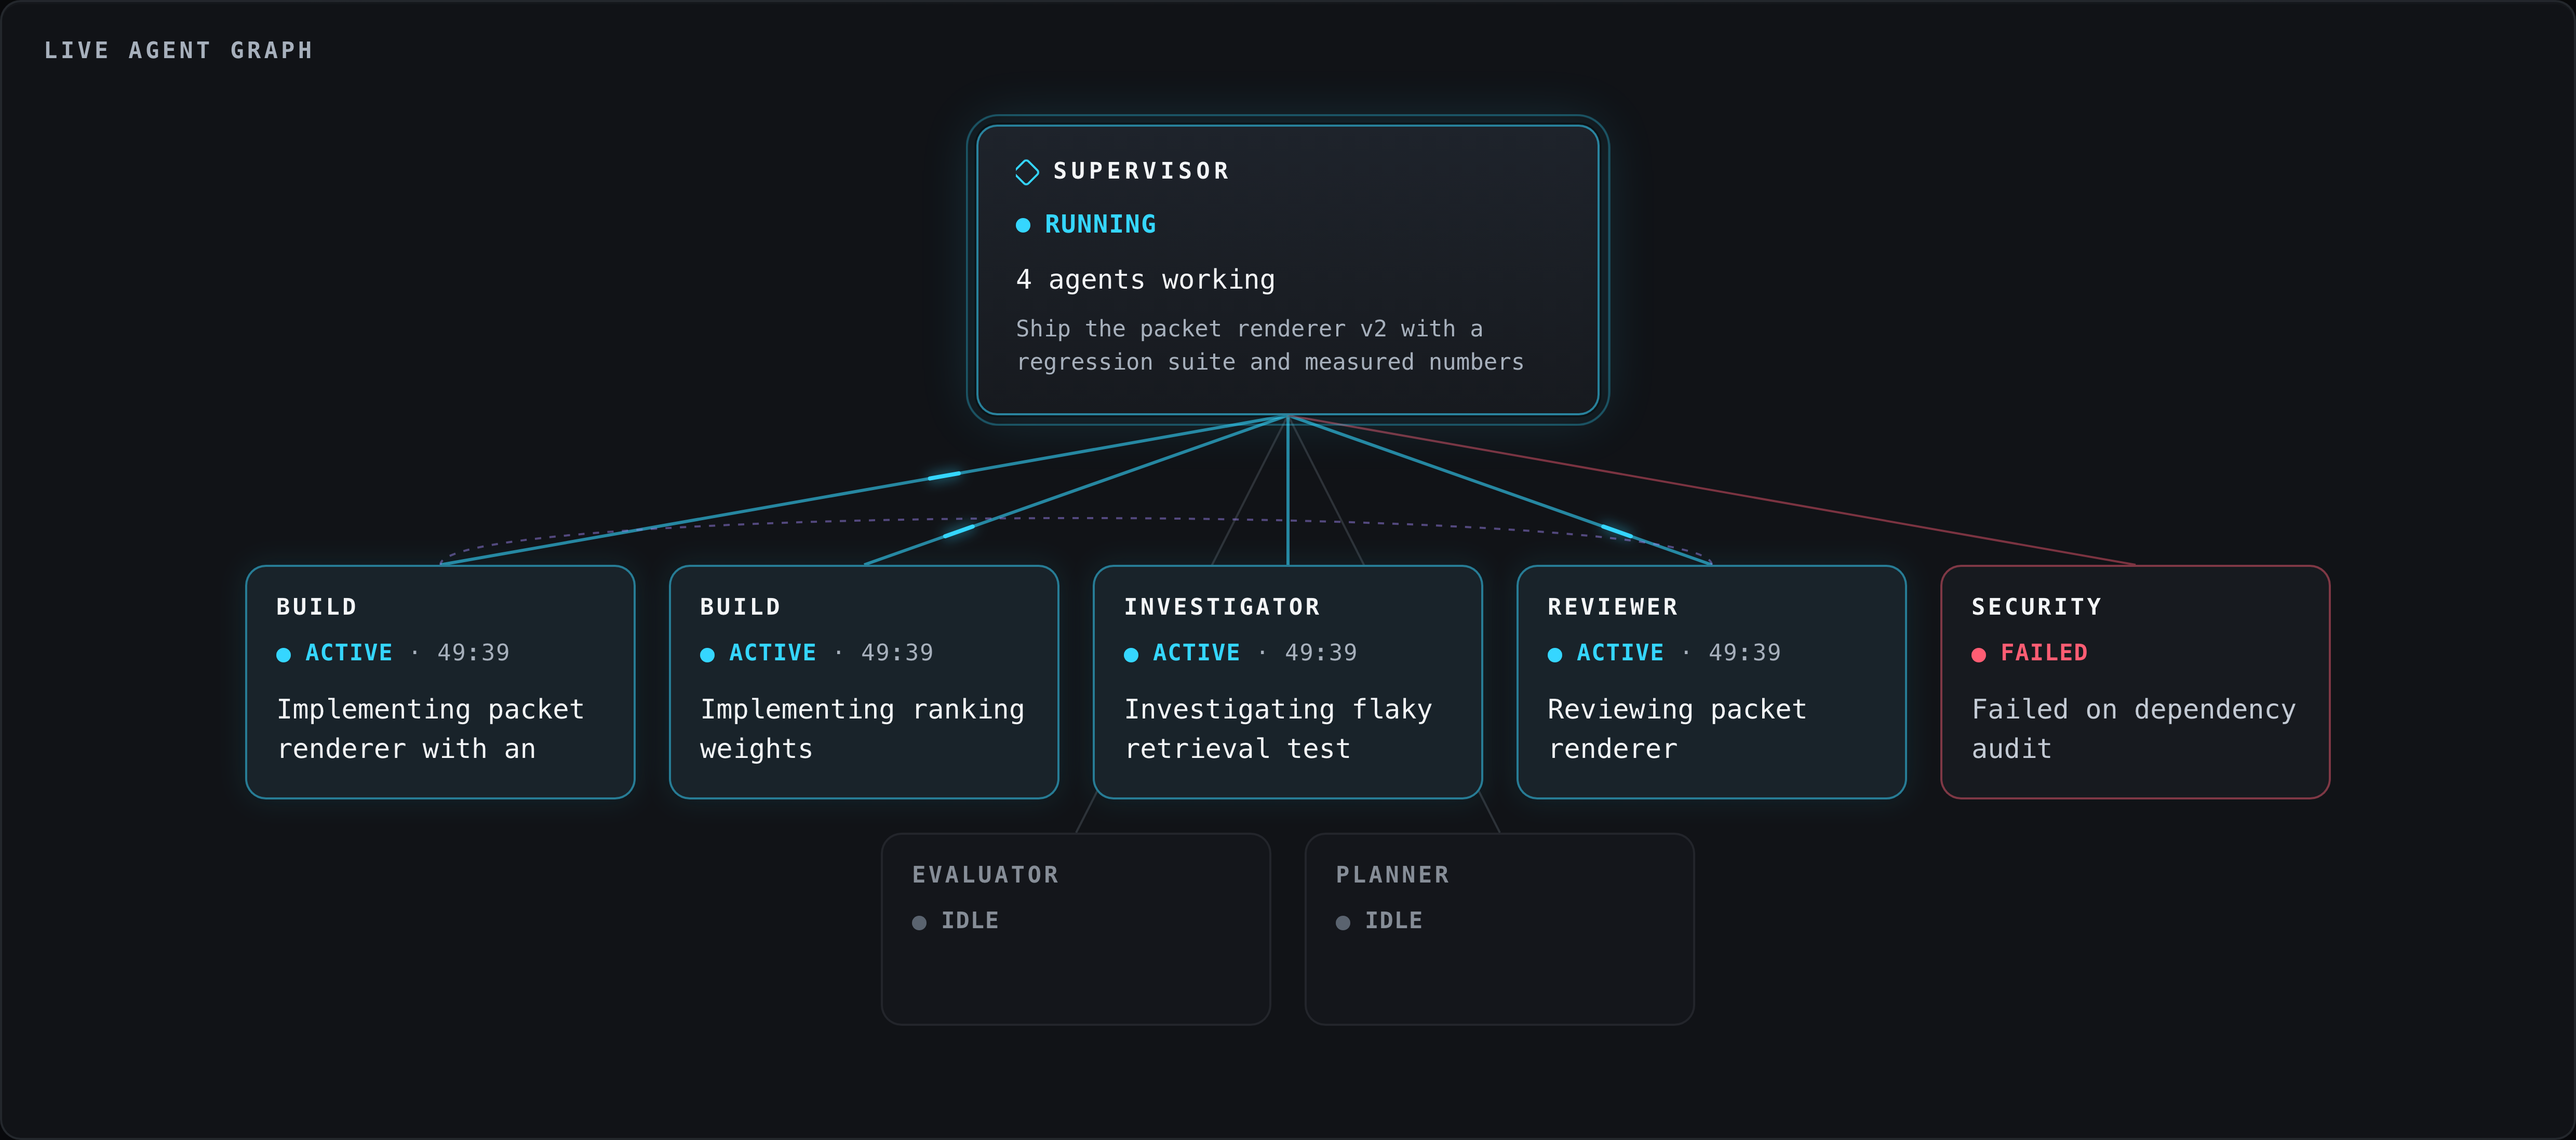
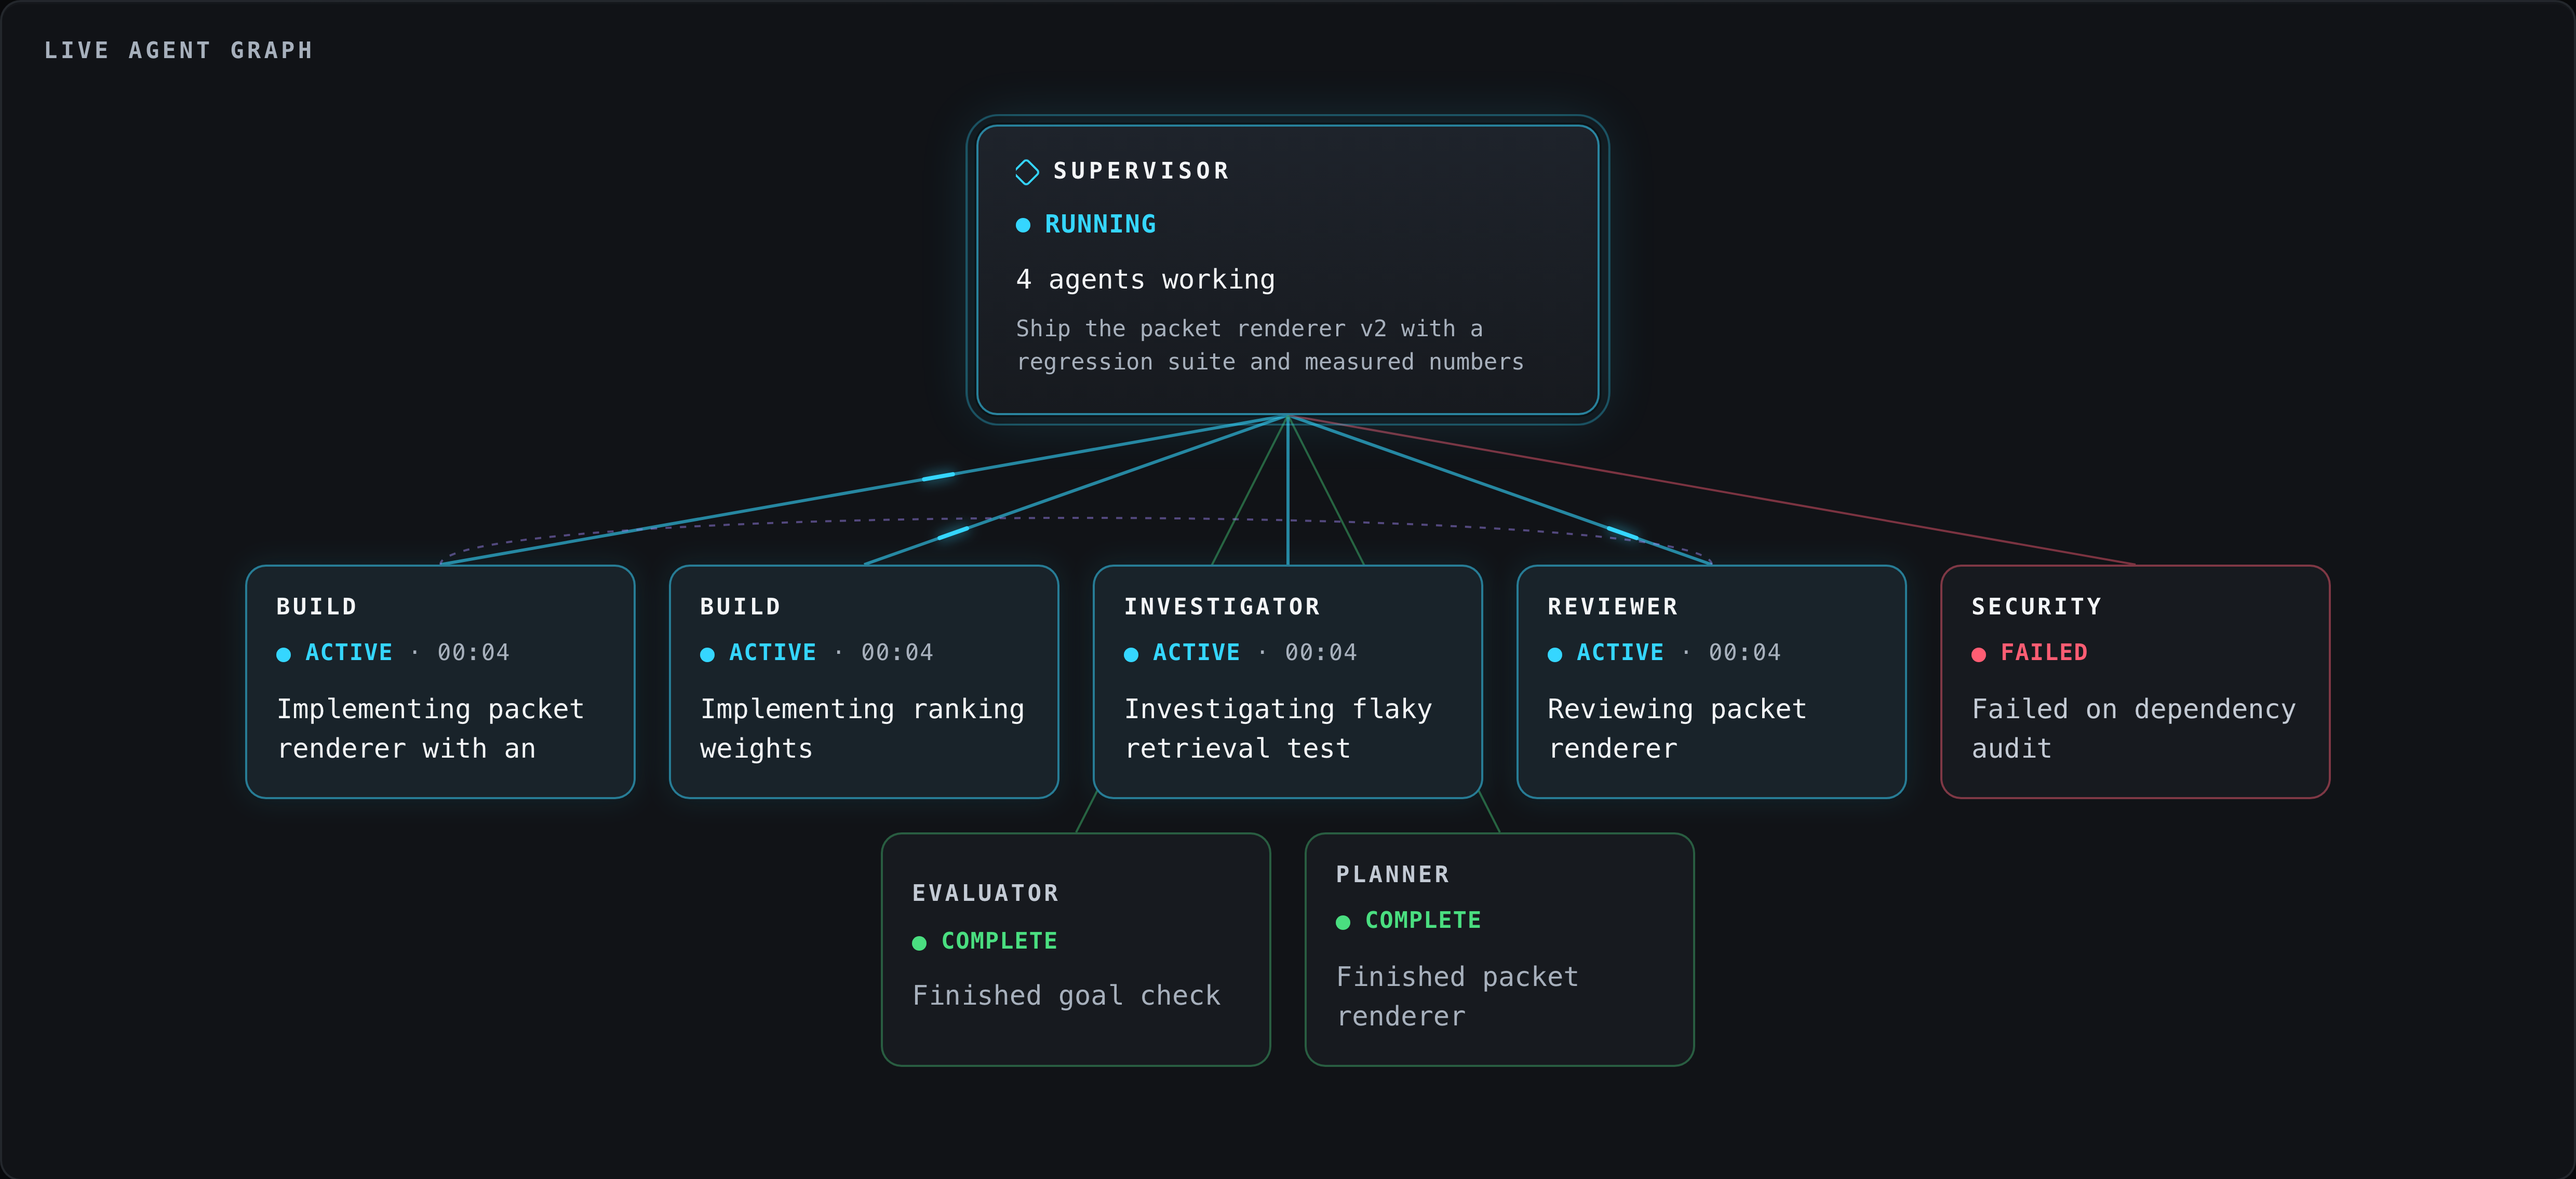
docs: the graph image shows every state, including complete

diff --git a/README.md b/README.md
@@ -8,8 +8,8 @@ yours. State lives in SQLite, not in the conversation.
 ![The live agent graph: the supervisor at the top, workers below it, live edges lit](docs/images/agent-graph.png)
 
 *The dashboard's live agent graph. The supervisor owns the loop; each worker
-is a disposable agent on one job. Cyan is working, coral failed, gray idle;
-the dashed edge links a reviewer to the work it reviews.*
+is a disposable agent on one job. Cyan is working, green complete, coral
+failed; the dashed edge links a reviewer to the work it reviews.*
 
 ## Quick start
 
